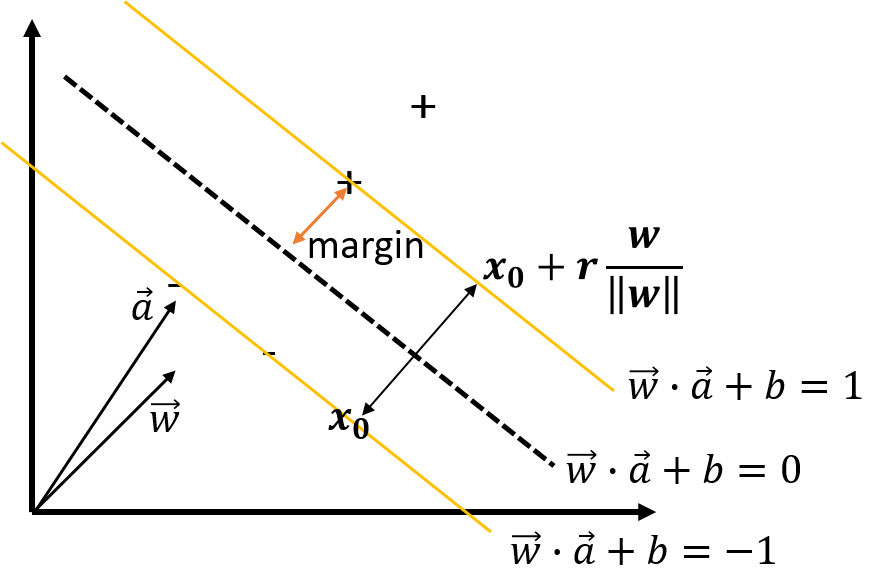
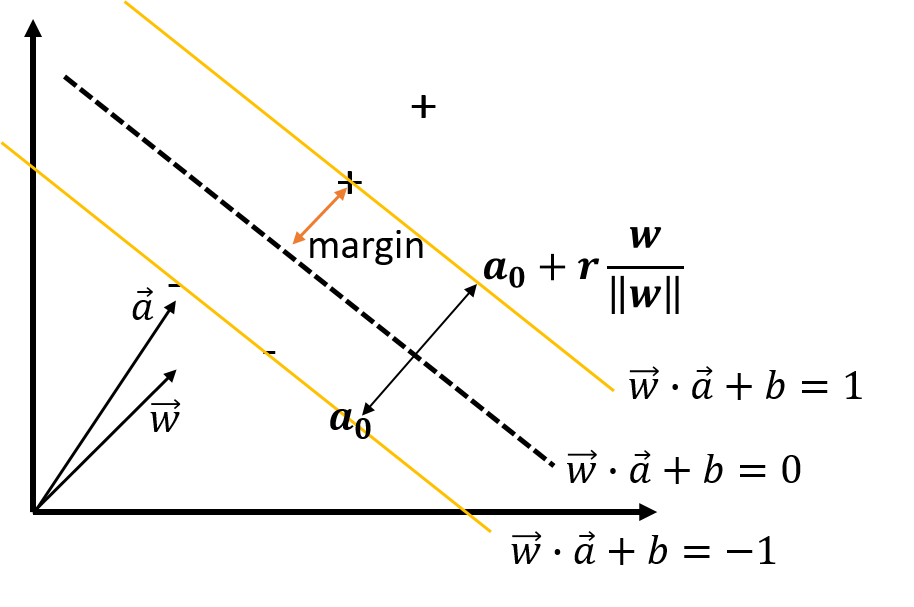
rejection sampling completed

diff --git a/_bayesian/2019-05-14-monte-carlo-approximation.md b/_bayesian/2019-05-14-monte-carlo-approximation.md
@@ -13,15 +13,15 @@ When it comes to high dimensions, or complex models, however, the posterior dist
 
 ## Deterministic Method
 
-Suppose we want to evaluate the posterior expectation of a function $h(\theta)$. 
+Suppose we want to evaluate the posterior expectation of a function $$h(\theta)$$. 
 
 That is:
 
-$$ E(h(\theta)|y) = \int h(\theta)p(\theta|y) d\theta $$
+$$ E(h(\theta) \mid y) = \int h(\theta)p(\theta\mid y) d\theta $$
 
 Deterministic numerical integration methods evaluates $$ h(\theta) p(\theta \mid y) $$ at selected points $$\theta^s $$:
 
-$$ E(h(\theta) |y) = \int h(\theta) p(\theta | y) d\theta \approx \frac {1}{S} \sum_{s=1}^S w_s h(\theta^s) p(\theta^s |y)$$,
+$$ E(h(\theta) \mid y) = \int h(\theta) p(\theta \mid y) d\theta \approx \frac {1}{S} \sum_{s=1}^S w_s h(\theta^s) p(\theta^s \mid y)$$,
 
 where weight $$w_s$$ corresponding to the volume of the space. The more the points $$\theta_s$$ are, the more accurate the accuracy would be. The deterministic numerical method typically has lower variance than simulation numerical method, however, when the dimensions get higher, it becomes intractable to compute integrations. For instance, suppose there are $$s$$ points in $$d$$-dimensions. Then it needs $$s^d$$ integrand evaluations to conduct deterministic numerical methods.
 
@@ -39,7 +39,7 @@ Unlike deterministic methods, simulation methods can be used for high-dimensiona
 
 Let's approximate the integral value of $$xe^x$$:
 
-$$ \int_0^1 xe^xdx  \approx \frac{1}{S} \sum_{s=1}^S x_i e^{x_i}$$
+$$ \int_0^1 xe^xdx  \approx \frac{1}{S} \sum_{i=1}^S x_i e^{x_i}$$
 
 
 
@@ -76,11 +76,11 @@ Following steps are how rejection sampling works:
   then accept the $$\theta$$, otherwise reject it.
 
 ```R
-x = seq(-10, 10,0.1)
-y = dnorm(x, 1, 1)
-y2 = dnorm(x, -2, 2)
-px = y+y2
-plot(x,px, type = 'l', col='blue')
+ptheta = function(x){
+  y = 0.4*dnorm(x,0.5,0.5)+0.6*dnorm(x, 2, 1)
+  return(y)
+}
+curve(ptheta, -1, 4, col='blue')
 ```
 
 <p align='center'>
@@ -89,13 +89,16 @@ plot(x,px, type = 'l', col='blue')
     <sub>Target distribution</sub>
 </p>
 
-Suppose above distribution is the target distribution, $$ p(\theta)$$. It is a mixture of Gaussian: N(1,1) +N(-2,2).
+Suppose above distribution is the target distribution, $$ p(\theta)$$. It is a mixture of Gaussian: N(0.5,0.5) +N(2,1).
 
 ```R
-qx = dnorm(x, 0, 3)
-plot(x, px, col= "blue", type='l')
-lines(x, qx)
-legend(7, 0.45, legend= c('px', 'qx'), col = c('black', 'blue'), lty=1)
+qtheta = function(x, k=1){
+  y = dnorm(x, 1, 2)
+  return(k*y)
+}
+curve(ptheta, -2, 5, col='blue')
+curve(qtheta, -2, 5, add = TRUE)
+legend(3, 0.6, legend= c('px', 'qx'), col = c('black', 'blue'), lty=1)
 ```
 
 <p align='center'>
@@ -104,13 +107,14 @@ legend(7, 0.45, legend= c('px', 'qx'), col = c('black', 'blue'), lty=1)
     <sub>Proposal distribution</sub>
 </p>
 
-If we pick normal distribution with 0 mean and 3 variance as a proposal distribution, we can intuitively know samples from the proposal distribution will not cover the target distribution. Thus, we use a scaling factor, $$k$$, to envelop the target distribution. To do so, we need to get maximum ratio of the target distribution and the proposal distribution.
+If we pick normal distribution with 1 mean and 2 variance as a proposal distribution, we can intuitively know samples from the proposal distribution will not cover the target distribution. Thus, we use a scaling factor, $$k$$, to envelop the target distribution. To do so, we need to get maximum ratio of the target distribution and the proposal distribution.
 
 ```R
-k = max(px/qx)
-plot(x, k*qx, type= 'l')
-lines(x,px,col= "blue")
-legend(7, 0.45, legend= c('px', 'qx'), col = c('black', 'blue'), lty=1)
+x = seq(0, 1, 0.01)
+k = max(ptheta(x)/qtheta(x))
+curve(ptheta, -2, 5, col='blue')
+curve(qtheta(x,k), -2, 5, add = TRUE)
+legend(3, 0.6, legend= c('px', 'qx'), col = c('black', 'blue'), lty=1)
 ```
 
 <p align='center'>
@@ -118,7 +122,35 @@ legend(7, 0.45, legend= c('px', 'qx'), col = c('black', 'blue'), lty=1)
     <br/>
     <sub>Scaled Proposal distribution</sub>
 </p>
+Now we build rejection function to sample q and accept proper samples for simulating p.
 
+```R
+# rejection function
+rejection = function(n , k){
+  x = rnorm(n, 1, 2)
+  u = runif(n, 0, 1)
+  
+  ratio = ptheta(x)/ (qtheta(x,k))
+  samples = x[u<ratio]
+  
+  return(samples)
+}
+
+n = 10000
+# create real p data, and rejection sample
+real <- data.frame(real_y = ptheta(seq(-2, 5, length.out = n)), real_x = seq(-2, 5, length.out = n))
+sampling <- data.frame(rejection = rejection(n, k))
+
+# create histograms with curve
+ggplot(sampling, aes(rejection)) + geom_histogram(aes(y = ..density.., fill = ..density..)) + 
+    geom_line(aes(x = real_x, y = real_y), data = real, colour = "red") + scale_fill_gradient2(guide = guide_legend(reverse = TRUE))
+```
+
+<p align='center'>
+    <img src="../../assets/img/bayesian/7-rejection.png" style="width: 70%">
+    <br/>
+    <sub>Simulated Distribution</sub>
+</p>
 
 
 

diff --git a/_machine/2019-05-17-Support Vector Machine.md b/_machine/2019-05-17-Support Vector Machine.md
@@ -5,7 +5,7 @@ categories: Machine
 mathjax: true
 ---
 
-Support Vector Machine is a linear model that can separate classes with a hyperplane. Suppose we are given a feature vector $$x$$, and we need to classify the class y either 1 or -1. the linear model forms:
+Support Vector Machine is a linear model that can separate classes with a hyperplane. Suppose we are given a feature vector $$a$$, and we need to classify the class y either 1 or -1. the linear model forms:
 
 $$ f(x) = w^T a +b $$
 
@@ -19,7 +19,7 @@ For the convenience, we assume the data is linearly separable. Then, there would
     <sub>Decision Boundary</sub>
 </p>
 
-Here $$+$$ signs are positives where $$y$$ should be 1, and $$-$$ signs are negatives where $$y$$ should be -1. And the data on the yellow line, margin, are support vectors like the one of the data vector $$\vec a$$. Using the hyperplane $$\vec w$$ and the real number $$b$$, we classify data vector:
+Here $$+$$ signs are positives where $$y$$ should be 1, and $$-$$ signs are negatives where $$y$$ should be -1. And the data on the yellow line are support vectors like the one of the data vector $$\vec a$$. Using the hyperplane $$\vec w$$ and the real number $$b$$, we classify data vector:
 
 $$ \vec w \cdot \vec a +b \geq 1 $$, then $$y_i = 1$$
 
@@ -45,7 +45,7 @@ The dot product of vector $$\vec w$$ on vector $$\vec a$$ gives the magnitude of
     <sub>Margin between hyperplanes</sub>
 </p>
 
-Now we need to find a vector $$w$$ and a real number $$b$$ which gives us the largest margin between the support vectors. Suppose $$a_0$$ is a point in the hyperplane $$\vec w \cdot \vec a +b = -1 $$. To get margin, all we need to calculate is the distance between $$a_0$$ and the hyperplane $$\vec w \cdot \vec a +b = 1 $$. And let's denote this distance as $$r$$. Then, the point in the hyperplane $$\vec w \cdot \vec a +b = 1 $$ would be:
+Now we need to find a vector $$w$$ and a real number $$b$$ which gives us the largest margin between the support vectors. Suppose $$a_0$$ is a point in the hyperplane $$\vec w \cdot \vec a +b = -1 $$ as in the above plot. To get margin, all we need to calculate is the distance between $$a_0$$ and the hyperplane $$\vec w \cdot \vec a +b = 1 $$. And let's denote this distance as $$r$$. Then, the point in the hyperplane $$\vec w \cdot \vec a +b = 1 $$ would be:
 
 $$ a_0 + r \frac {w}{\| w \|} $$
 
@@ -73,13 +73,13 @@ $$ y_i (\vec w \cdot \vec a +b) -1 \geq 0$$
 
 ## Lagrangian Multiplier Method
 
-We can transform this into quadratic programming that is to minimize $$ \|w\|^2  $$. Now this is a constrained optimization, where we can solve it by the Lagrangian multiplier method. Since it becomes quadratic programming, the cost surface is paraboloid with a single global minimum. We can rewrite this:
+We can transform this into quadratic programming that is to minimize $$ \|w\|^2  $$. Now this is a constrained optimization, where we can solve it by the Lagrangian multiplier method. Since it becomes quadratic programming, the cost surface is paraboloid with a single global minimum. We can rewrite this into:
 
 $$ L(\vec w, b, \lambda) = \frac{1}{2} \| w\|^2  - \sum_{i=1}^N \lambda_i (y_i(w \cdot a_i +b)-1 )$$
 
 where $$\lambda = (\lambda_i, ..., \lambda_N) $$
 
-Setting the derivative of $$L(\vec w, b, \lambda)$$ with regard to $$\vec w$$ and $$b$$ to zero, we get:
+Setting the derivative of $$L(\vec w, b, \lambda)$$ to zero with regard to $$\vec w$$ and $$b$$, we get:
 
 $$ \frac {dL}{dw} = w - \sum_{i=1}^N \lambda_i y_i a_i$$
 
